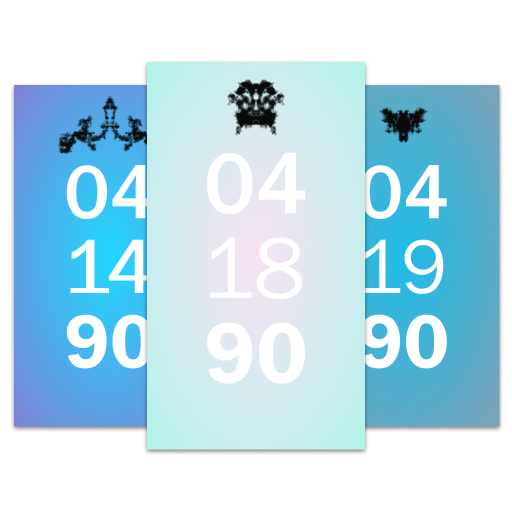
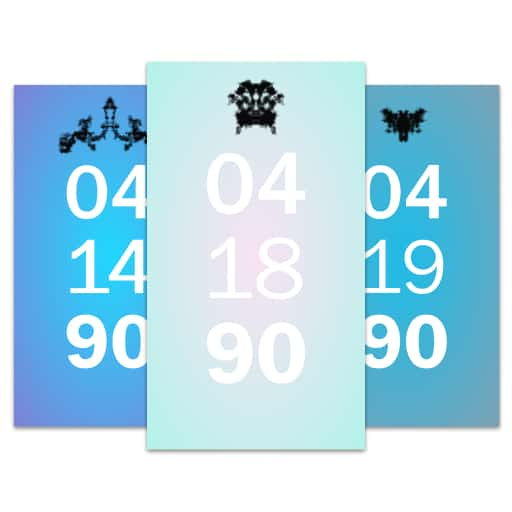
Compress images with shortpixel

diff --git a/theme/snooker-practice-tracker/drills.html b/theme/snooker-practice-tracker/drills.html
@@ -15,7 +15,7 @@
   <meta name="author" content="Myles Ieong">
 
   <!-- Favicon -->
-  <link rel="shortcut icon" type="image/x-icon" href="images/favicon.png" />
+  <link rel="shortcut icon" type="image/x-icon" href="images/favicon.svg" />
   
   <!-- PLUGINS CSS STYLE -->
   <link rel="stylesheet" href="../plugins/bootstrap/bootstrap.min.css">
@@ -44,7 +44,7 @@
 
 <nav class="navbar main-nav navbar-expand-lg px-2 px-sm-0 py-2 py-lg-0">
   <div class="container">
-    <a class="navbar-brand" href="index.html"><img src="images/logo.png" alt="logo of Snooker Practice Tracker"></a>
+    <a class="navbar-brand" href="index.html"><img src="images/logo.svg" alt="logo of Snooker Practice Tracker"></a>
 
     <button class="navbar-toggler" type="button" data-toggle="collapse" data-target="#navbarNav"
       aria-controls="navbarNav" aria-expanded="false" aria-label="Toggle navigation">
@@ -305,7 +305,7 @@
 =            Footer            =
 =============================-->
 <footer class="footer-main">
-<!--
+
   <div class="container">
     <div class="row">
 
@@ -314,14 +314,12 @@
 
           <ul class="social-icon list-inline">
             <li class="list-inline-item">
-              <a href="https://www.facebook.com/themefisher"><i class="ti-facebook"></i></a>
+              <a href="https://www.facebook.com/Snooker-Practice-Tracker-app-100271852709044"><i class="ti-facebook"></i></a>
             </li>
             <li class="list-inline-item">
-              <a href="https://twitter.com/themefisher"><i class="ti-twitter"></i></a>
+              <a href="mailto:unicornio.macau@gmail.com"><i class="ti-email"></i></a>
             </li>
-            <li class="list-inline-item">
-              <a href="https://www.instagram.com/themefisher/"><i class="ti-instagram"></i></a>
-            </li>
+
           </ul>
         </div>
       </div>
@@ -329,7 +327,6 @@
     </div>
   </div>
   
-  -->
   <div class="text-center bg-dark py-4">
     <small class="text-secondary">Copyright &copy; <script>document.write(new Date().getFullYear())</script>. Designed &amp; Developed by <a href="http://www.unicorniomacau.com/">Unicornio Macau</a></small class="text-secondary">
   </div>
